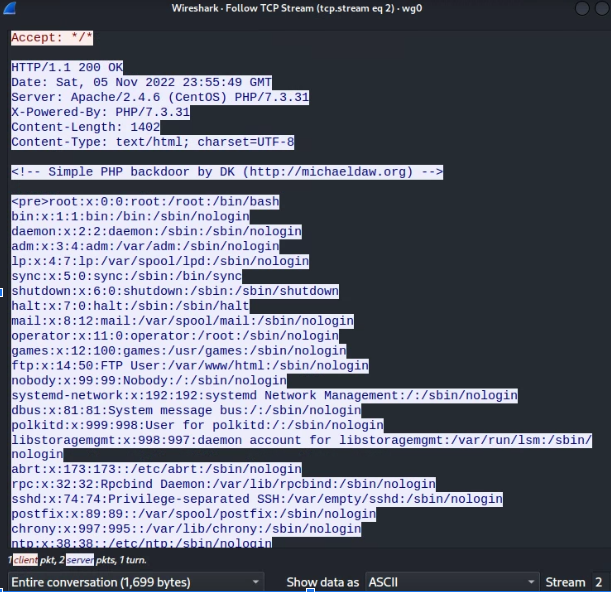
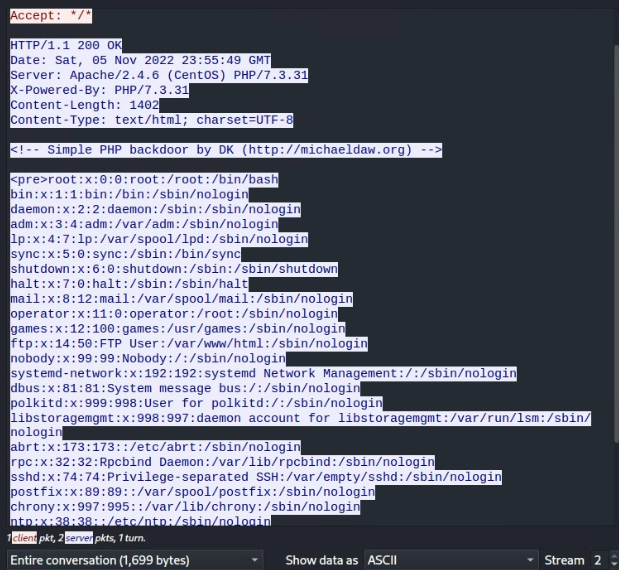
week8

diff --git a/Week8/Lab 8.1 - Weevely.md b/Week8/Lab 8.1 - Weevely.md
@@ -8,7 +8,7 @@ Wireshark Capture of traditional webshellTarget pippin with a traditional webshe
 
 ## Deliverable 1. Provide a screenshot that shows the relevant tcp stream similar to the one below. Create a capture filter on port 80 when you do so.
 
-![image-20221105205902211](./images/image-20221105205902211-1667696347658-1.png)
+![image-20221105231720500](./images/1.png)
 
 `curl 'http://10.0.5.25/upload/navarro.php?cmd=cat+/etc/passwd'`
 
